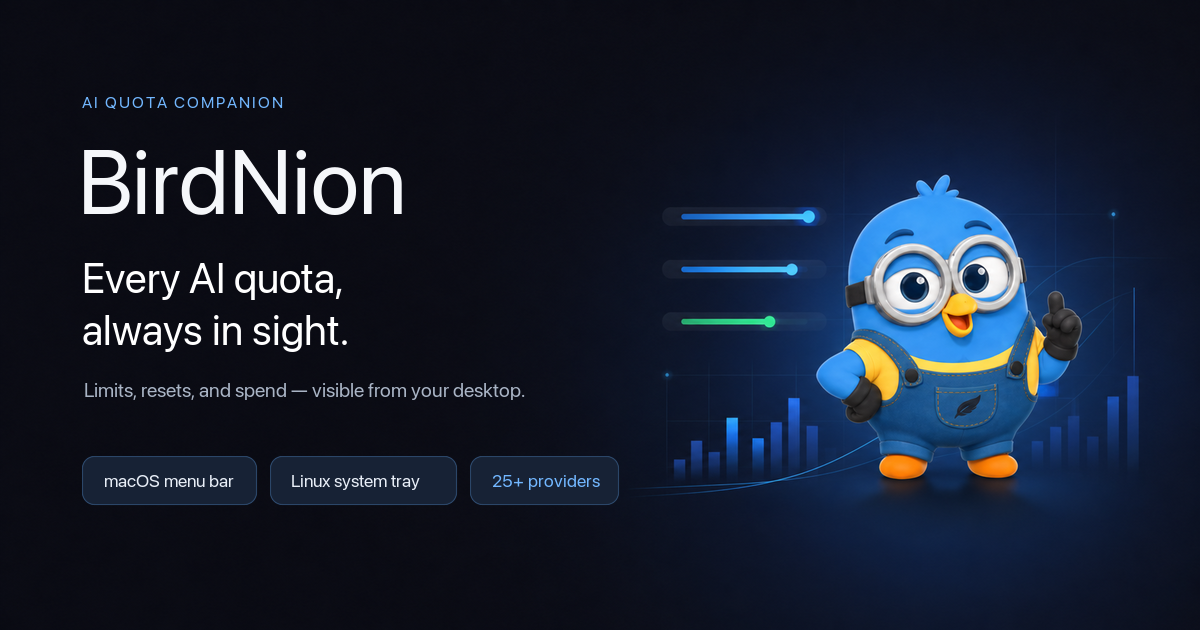
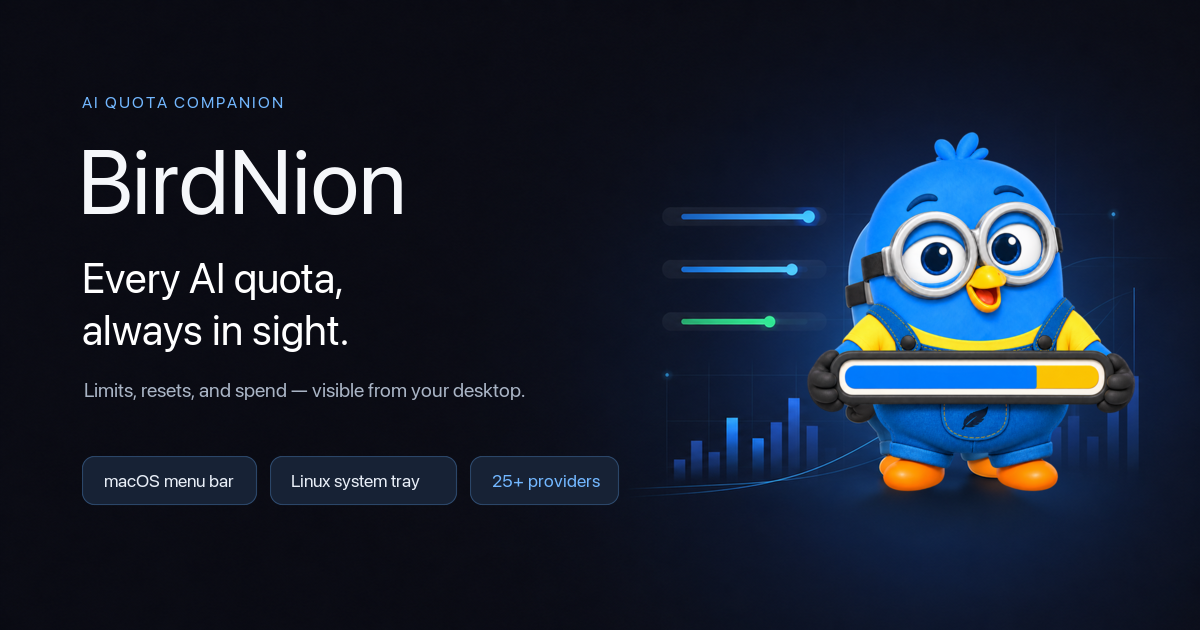
feat(website): refresh mascot assets and product copy

Changed region(s): [[0.6475, 0.2111, 0.9558, 0.7841]]

diff --git a/website/index.html b/website/index.html
@@ -54,7 +54,7 @@
 
       <figure class="product-proof">
         <div class="hero-mascot" aria-hidden="true">
-          <img src="assets/birdnion-readme-bird-gpt-384.png?v=1" width="384" height="384" alt="" fetchpriority="low" decoding="async">
+          <img src="assets/birdnion-readme-bird-quota-384.png?v=1" width="384" height="384" alt="" fetchpriority="low" decoding="async">
         </div>
         <div class="proof-label">
           <span>01 / REAL LOCAL COST VIEW</span>

diff --git a/README.md b/README.md
@@ -21,7 +21,7 @@ The native macOS app uses SwiftUI/AppKit and a vendored, trimmed `CodexBarCore` 
 - **Plan around resets.** Per-provider 5-hour, weekly, monthly, credit, and budget windows with reset countdowns.
 - **See spend and cost.** Claude local JSONL scans, weekly usage insights, privacy-safe project rankings, Claude Admin API charts, Codex credits, OpenRouter balances, Bedrock budgets, and provider-specific cost/credit summaries where available.
 - **Configure agent sources.** Pick OAuth, CLI, browser cookies, API keys, AWS credentials, local app files, or provider apps from Settings per provider.
-- **Keep desktop chrome quiet.** macOS can rotate provider quota percents in the menu bar; Linux shows the same rotation in the tray tooltip.
+- **Keep desktop chrome quiet.** macOS can rotate provider quota percents in the menu bar; Linux rotates the provider logo and percentage directly in the tray icon.
 - **Privacy-first.** BirdNion reuses existing sessions and explicit config. It does not store passwords or perform unrestricted disk scans.
 
 ## Install
@@ -157,9 +157,17 @@ Planned direction:
 
 Open to more providers when they fit the existing `QuotaProvider` model.
 
-## Icon & Screenshots
+## Mascot, Icon & Screenshots
 
-The macOS menu-bar icon is the BirdNion bird by default. When "Show percent in menu bar" is enabled, the bar rotates through active provider quota percents with each provider's logo. Linux keeps the tray icon stable and exposes the rotating provider value in its tooltip.
+The macOS menu-bar icon is the BirdNion bird by default. When "Show percent in menu bar" is enabled, the bar rotates through active provider quota percents with each provider's logo. Linux renders the rotating provider logo and percentage directly in the tray icon.
+
+<div align="center">
+  <img src="website/assets/birdnion-readme-bird-quota-384.png" width="196" alt="BirdNion mascot holding a blue and yellow quota bar" />
+  <br />
+  <strong>BirdNion quota companion</strong>
+</div>
+
+<br />
 
 <div align="center">
   <img src="docs/images/logo.png" width="112" alt="BirdNion app icon" />
@@ -185,7 +193,7 @@ The macOS menu-bar icon is the BirdNion bird by default. When "Show percent in m
 
 ## Features
 
-- Optional rotating provider values in the macOS menu bar or Linux tray tooltip, with provider toggles and drag-to-reorder Settings.
+- Optional rotating provider values in the macOS menu bar or Linux tray icon, with provider toggles and platform-appropriate reorder controls.
 - Provider-specific usage meters with reset countdowns.
 - Guided Setup routes fixable provider errors to the exact Settings control, saves first, then marks the provider Live only after a real self-test succeeds.
 - A compact popover-header Action Center badge opens Settings for current setup/connection issues; resolved items disappear automatically, with no issue-history store.
@@ -248,7 +256,7 @@ No passwords are stored. Browser cookies are reused only when the user chooses a
 ### Linux
 
 - Browser-cookie providers require a supported Chrome/Chromium/Brave/Edge/Firefox profile and may depend on the desktop keyring.
-- The system tray exposes quota rotation through its tooltip because Linux desktops do not provide portable text beside tray icons.
+- The system tray renders the rotating provider logo and percentage directly in its icon because Linux desktops do not provide portable text beside tray icons.
 - Global hotkeys are not enabled on Linux; use the app window and Settings controls.
 
 ## Docs

diff --git a/docs/landing-page-design-guidelines.md b/docs/landing-page-design-guidelines.md
@@ -34,7 +34,7 @@ The website should feel like a cheerful desktop companion sitting beside BirdNio
 - Mobile is one column with 20px gutters. Narrative alternates 7/5 and 5/7 on larger screens.
 - Use whitespace and hairlines before cards, shadows or rounded containers.
 - The product UI is the hero. The mascot stays secondary and never covers the headline, primary action, or product evidence.
-- `website/assets/birdnion-readme-bird-gpt.png` is the approved transparent master generated with `docs/social.png` attached as the reference image. The hero serves its 384px delivery derivative, `website/assets/birdnion-readme-bird-gpt-384.png`; do not generate alternate characters without explicit approval.
+- `website/assets/birdnion-readme-bird-quota.png` is the approved transparent master derived from the original BirdNion mascot. The hero and README serve its 384px delivery derivative, `website/assets/birdnion-readme-bird-quota-384.png`; do not generate alternate characters without explicit approval.
 - Header, footer, and favicon use the existing `docs/images/logo.png` mark.
 
 ## Product-truth and asset rules
